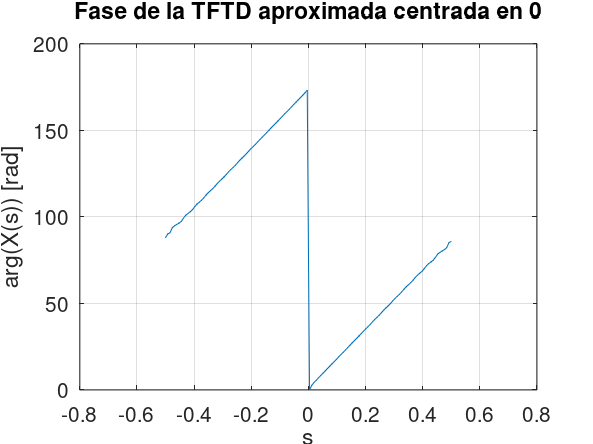
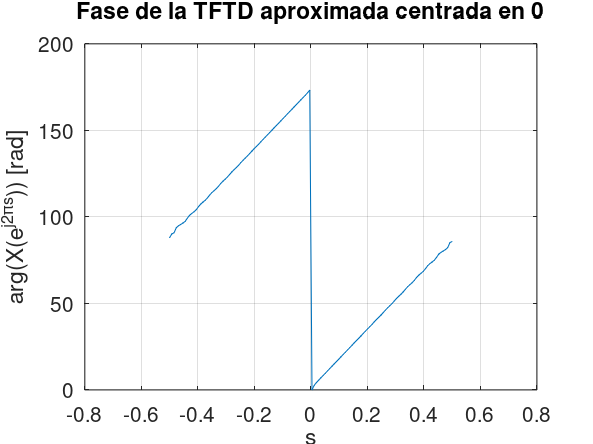
avances fran

diff --git a/main_ej1.m b/main_ej1.m
@@ -1,38 +1,44 @@
 % SCRIPT PRINCIPAL
 
+%%EJERCICIO 1
+
+%%1.
+
 %carga la senial con un numero de alumno como parametro
 [n, x] = senial(38973);
 
 %grafica de la funcion
 figure(1);
-stem(n, x);
+stem(n, x, 'filled', 'MarkerSize', 1);
 grid on;
+xlabel("n");
+ylabel("x[n]");
 title("Señal x[n]");
-xlabel("n"); ylabel("x[n]");
 
 %obtencion de TFTD aproximada mediante la TDF con N potencia de 2
 x = x(:)';
-L = length(x);
-M = 2^nextpow2(L); %relleno de ceros
+N = length(x);
+M = 2^nextpow2(N); %relleno de ceros
 X = fft(x, M);     %calculo de TDF
+s = (0:M-1)/M;
 
 %grafico del modulo de X
 modulo_X = abs(X);
-s = (0:M-1)/M;
 figure;
-plot(s, modulo_X); grid on;
+plot(s, modulo_X);
+grid on;
 xlabel('s');
-ylabel('|X(s)|');
+ylabel('|X(e^{j2πs})|');
 title('Modulo de la TFTD aproximada');
 
 %grafico del modulo de X centrado, para mejor interpretacion
 s_centrado = linspace(-0.5, 0.5, M);
 figure;
-plot(s_centrado, fftshift(modulo_X)); grid on;
+plot(s_centrado, fftshift(modulo_X));
+grid on;
 xlabel('s');
-ylabel('|X(s)|');
-title('Modulo de la TFTD aproximada centrada en 0');
-
+ylabel('|X(e^{j2πs})|');
+title('Modulo de la TFTD aproximada centrado en 0');
 
 %grafico de la fase de X
 fase_X = angle(X);
@@ -41,12 +47,25 @@ fase_X_unwrapped = unwrap(fase_X);
 figure;
 plot(s, fase_X_unwrapped); grid on;
 xlabel('s');
-ylabel('arg(X(s))[rad]');
+ylabel('arg(X(e^{j2πs}))[rad]');
 title('Fase de la TFTD aproximada');
 
 %grafico de la fase de X centrada
 figure;
 plot(s_centrado, fftshift(fase_X_unwrapped)); grid on;
 xlabel('s');
-ylabel('arg(X(s)) [rad]');
+ylabel('arg(X(e^{j2πs})) [rad]');
 title('Fase de la TFTD aproximada centrada en 0');
+
+
+ %%2.
+
+
+
+
+
+
+
+
+
+

diff --git a/sistema1.m b/sistema1.m
@@ -1,0 +1,48 @@
+%%respuesta impulsional del sistema 1
+
+ %defino cuantas muestras de h quiero en la grafica
+N = 5;
+L = -N:N;
+h = zeros(size(L));
+
+for k = 1:length(L)
+  n = L(k)
+
+  if n == 0
+
+    h(k) = 1/2;
+
+  elseif n == 1
+
+    h(k) = 1/2;
+
+  end
+ end
+
+
+ %grafica
+figure;
+stem(L , h, 'filled', 'MarkerSize', 3);
+grid on;
+xlabel('n');
+ylabel('h[n]');
+title('Respuesta impulsional h[n] del Sistema 1');
+ylim([min(h)-0.1, max(h)+0.1]);
+
+
+
+
+%%respuesta en frecuencia del sistema 1
+M = 1000
+s = linspace(-0.5, 0.5, M)
+H = 1/2 + (1/2)*exp(-j*2*pi*s)
+
+%grafico del modulo
+modulo_H = abs(H)
+figure;
+plot(s, modulo_H);
+grid on;
+xlabel('s');
+ylabel('|H(e^{j2πs})|','interpreter','latex');
+title('Modulo de la respuesta frecuencial H(e^{j2πs}) del Sistema 1', 'interpreter', 'latex');
+

diff --git a/sistema4.m b/sistema4.m
@@ -1,0 +1,32 @@
+%%respuesta impulsional del sistema 4
+
+ %defino cuantas muestras de h quiero en la grafica
+N = 10;
+L = -N:N;
+h = zeros(size(L));
+
+for k = 1:length(L)
+  n = L(k)
+
+  if n == 0
+
+    h(k) = 1/4;
+
+  elseif n>0
+
+    h(k) = (-1)^n * (3/8) * (1/2)^(n-1);
+
+  end
+ end
+
+
+ %grafica
+figure;
+stem(L , h, 'filled', 'MarkerSize', 2);
+grid on;
+xlabel('n');
+ylabel('h[n]');
+title('Respuesta impulsional h[n] del Sistema 4');
+
+%%respuesta en frecuencia del sistema 4
+

diff --git a/sistema3.m b/sistema3.m
@@ -1,0 +1,32 @@
+%%respuesta impulsional del sistema 3
+
+ %defino cuantas muestras de h quiero en la grafica
+N = 10;
+L = -N:N;
+h = zeros(size(L));
+
+for k = 1:length(L)
+  n = L(k)
+
+  if n == 0
+
+    h(k) = 1/4;
+
+  elseif n>0
+
+    h(k) = (3/8) * (1/2)^(n-1);
+
+  end
+ end
+
+
+ %grafica
+figure;
+stem(L , h, 'filled', 'MarkerSize', 2);
+grid on;
+xlabel('n');
+ylabel('h[n]');
+title('Respuesta impulsional h[n] del Sistema 3');
+
+%%respuesta en frecuencia del sistema 3
+

diff --git a/sistema2.m b/sistema2.m
@@ -1,0 +1,31 @@
+%%respuesta impulsional del sistema 1
+
+ %defino cuantas muestras de h quiero en la grafica
+N = 5;
+L = -N:N;
+h = zeros(size(L));
+
+for k = 1:length(L)
+  n = L(k)
+
+  if n == 0
+
+    h(k) = 1/2;
+
+  elseif n == 1
+
+    h(k) = -1/2;
+
+  end
+ end
+
+
+ %grafica
+figure;
+stem(L , h, 'filled', 'MarkerSize', 3);
+grid on;
+xlabel('n');
+ylabel('h[n]');
+title('Respuesta impulsional h[n] del Sistema 1');
+
+%%respuesta en frecuencia del sistema 1
